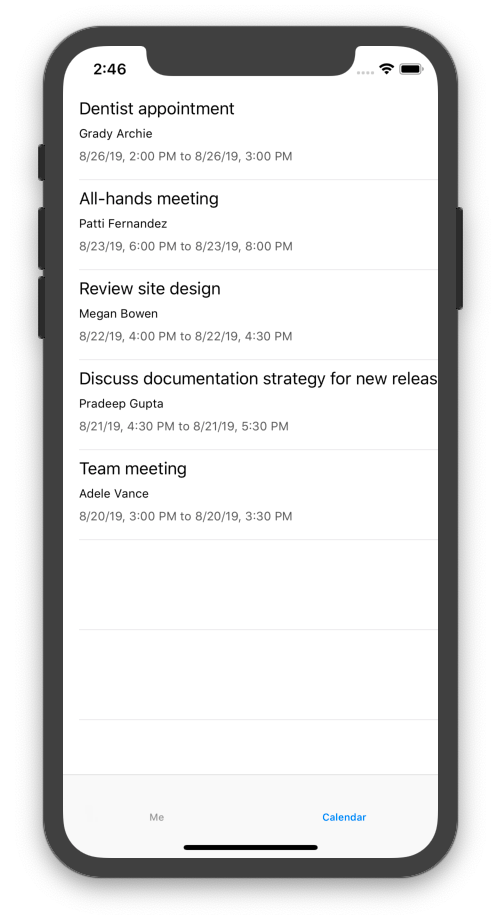
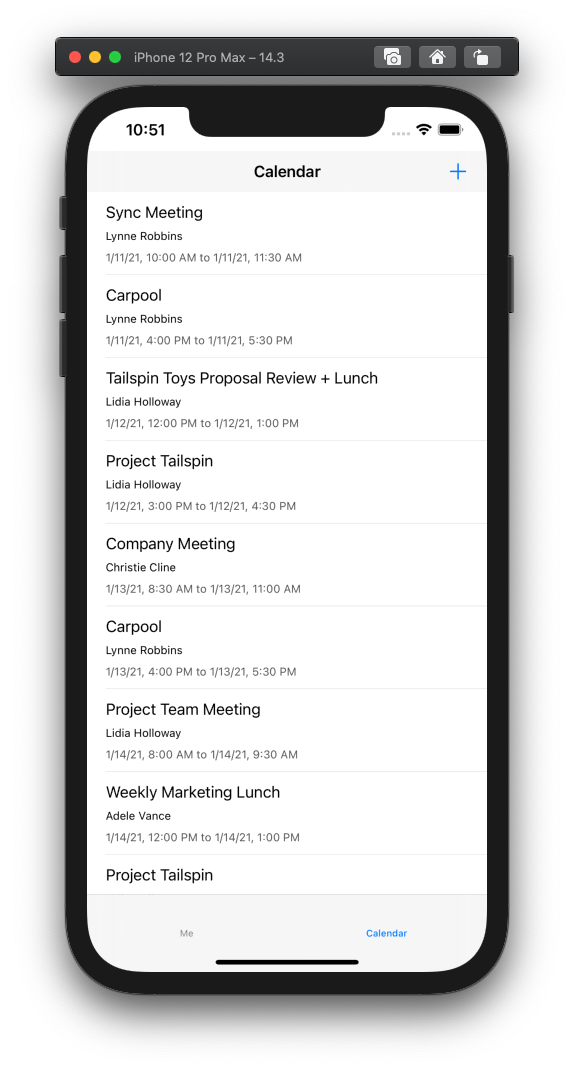
Updated get calendar step

Changed region(s): [[0.0599, 0.0, 0.9281, 0.9739]]

diff --git a/tutorial/05-add-ms-graph.md b/tutorial/05-add-ms-graph.md
@@ -4,18 +4,29 @@ In this exercise you will incorporate the Microsoft Graph into the application. 
 
 ## Get calendar events from Outlook
 
-In this section you will extend the `GraphManager` class to add a function to get the user's events and update `CalendarViewController` to use these new functions.
+In this section you will extend the `GraphManager` class to add a function to get the user's events for the current week and update `CalendarViewController` to use these new functions.
 
 1. Open **GraphManager.swift** and add the following method to the `GraphManager` class.
 
     ```Swift
-    public func getEvents(completion: @escaping(Data?, Error?) -> Void) {
-        // GET /me/events?$select='subject,organizer,start,end'$orderby=createdDateTime DESC
+    public func getCalendarView(viewStart: String, viewEnd: String, completion: @escaping(Data?, Error?) -> Void) {
+        // GET /me/calendarview
+        // Set start and end of the view
+        let start = "startDateTime=\(viewStart)"
+        let end = "endDateTime=\(viewEnd)"
         // Only return these fields in results
         let select = "$select=subject,organizer,start,end"
         // Sort results by when they were created, newest first
-        let orderBy = "$orderby=createdDateTime+DESC"
-        let eventsRequest = NSMutableURLRequest(url: URL(string: "\(MSGraphBaseURL)/me/events?\(select)&\(orderBy)")!)
+        let orderBy = "$orderby=start/dateTime"
+        // Request at most 25 results
+        let top = "$top=25"
+
+        let eventsRequest = NSMutableURLRequest(url: URL(string: "\(MSGraphBaseURL)/me/calendarview?\(start)&\(end)&\(select)&\(orderBy)&\(top)")!)
+
+        // Add the Prefer: outlook.timezone header to get start and end times
+        // in user's time zone
+        eventsRequest.addValue("outlook.timezone=\"\(self.userTimeZone)\"", forHTTPHeaderField: "Prefer")
+
         let eventsDataTask = MSURLSessionDataTask(request: eventsRequest, client: self.client, completion: {
             (data: Data?, response: URLResponse?, graphError: Error?) in
             guard let eventsData = data, graphError == nil else {
@@ -33,11 +44,20 @@ In this section you will extend the `GraphManager` class to add a function to ge
     ```
 
     > [!NOTE]
-    > Consider what the code in `getEvents` is doing.
+    > Consider what the code in `getCalendarView` is doing.
     >
-    > - The URL that will be called is `/v1.0/me/events`.
-    > - The `select` query parameter limits the fields returned for each events to just those the app will actually use.
-    > - The `orderby` query parameter sorts the results by the date and time they were created, with the most recent item being first.
+    > - The URL that will be called is `/v1.0/me/calendarview`.
+    >   - The `startDateTime` and `endDateTime` query parameters define the start and end of the calendar view.
+    >   - The `select` query parameter limits the fields returned for each events to just those the view will actually use.
+    >   - The `orderby` query parameter sorts the results by start time.
+    >   - The `top` query parameter requests 25 results per page.
+    >   - the `Prefer: outlook.timezone` header causes the Microsoft Graph to return the start and end times of each event in the user's time zone.
+
+1. Create a new **Swift File** in the **GraphTutorial** project named **GraphToIana.swift**. Add the following code to the file.
+
+    :::code language="swift" source="../demo/GraphTutorial/GraphTutorial/GraphToIana.swift" id="GraphToIanaSnippet":::
+
+    This does a simple lookup to find an IANA time zone identifier based on the time zone name returned by Microsoft Graph.
 
 1. Open **CalendarViewController.swift** and replace its entire contents with the following code.
 
@@ -57,11 +77,26 @@ In this section you will extend the `GraphManager` class to add a function to ge
             // Do any additional setup after loading the view.
             self.spinner.start(container: self)
 
-            GraphManager.instance.getEvents {
+            // Calculate the start and end of the current week
+            let timeZone = GraphToIana.getIanaIdentifier(graphIdentifer: GraphManager.instance.userTimeZone)
+            let now = Date()
+            var calendar = Calendar(identifier: .gregorian)
+            calendar.timeZone = TimeZone(identifier: timeZone)!
+
+            let startOfWeek = calendar.dateComponents([.calendar, .yearForWeekOfYear, .weekOfYear], from: now).date!
+            let endOfWeek = calendar.date(byAdding: .day, value: 7, to: startOfWeek)!
+
+            // Convert start and end to ISO 8601 strings
+            let isoFormatter = ISO8601DateFormatter()
+            let viewStart = isoFormatter.string(from: startOfWeek)
+            let viewEnd = isoFormatter.string(from: endOfWeek)
+
+            GraphManager.instance.getCalendarView(viewStart: viewStart, viewEnd: viewEnd) {
                 (data: Data?, error: Error?) in
                 DispatchQueue.main.async {
                     self.spinner.stop()
 
+                    // TEMPORARY
                     guard let eventsData = data, error == nil else {
                         self.calendarJSON.text = error.debugDescription
                         return
@@ -80,24 +115,48 @@ You can now run the app, sign in, and tap the **Calendar** navigation item in th
 
 ## Display the results
 
-Now you can replace the JSON dump with something to display the results in a user-friendly manner. In this section, you will modify the `getEvents` function to return strongly-typed objects, and modify `CalendarViewController` to use a table view to render the events.
+Now you can replace the JSON dump with something to display the results in a user-friendly manner. In this section, you will modify the `getCalendarView` function to return strongly-typed objects, and modify `CalendarViewController` to use a table view to render the events.
 
-1. Open **GraphManager.swift**. Replace the existing `getEvents` function with the following.
+1. Open **GraphManager.swift**. Replace the existing `getCalendarView` function with the following.
 
-    :::code language="swift" source="../demo/GraphTutorial/GraphTutorial/GraphManager.swift" id="GetEventsSnippet" highlight="1,17-38":::
+    :::code language="swift" source="../demo/GraphTutorial/GraphTutorial/GraphManager.swift" id="GetEventsSnippet" highlight="1,26-47":::
+
+1. Create a new **Cocoa Touch Class** file in the **GraphTutorial** project named `CalendarTableViewController.swift`. Choose **UITableViewController** in the **Subclass of** field.
+
+1. Open **CalendarTableViewController.swift** and replace its contents with the following.
+
+    :::code language="swift" source="../demo/GraphTutorial/GraphTutorial/CalendarTableViewController.swift" id="CalendarTableViewControllerSnippet":::
 
 1. Create a new **Cocoa Touch Class** file in the **GraphTutorial** project named `CalendarTableViewCell.swift`. Choose **UITableViewCell** in the **Subclass of** field.
 
-1. Open **CalendarTableViewCell.swift** and add the following code to the `CalendarTableViewCell` class.
+1. Open **CalendarTableViewCell.swift** and add the following properties to the `CalendarTableViewCell` class.
 
     :::code language="swift" source="../demo/GraphTutorial/GraphTutorial/CalendarTableViewCell.swift" id="PropertiesSnippet":::
 
-1. Open **Main.storyboard** and locate the **Calendar Scene**. Select the **View** in the **Calendar Scene** and delete it.
+1. Open **Main.storyboard** and locate the **Calendar Scene**. Delete the text view from the root view.
+1. Using the **Library**, add a **Navigation Bar** to the top of the view.
+1. Double-click the **Title** in the navigation bar and update it to `Calendar`.
+1. Using the **Library**, add a **Bar Button Item** to the right-hand side of the navigation bar.
+1. Select the new bar button, then select the **Attributes Inspector**. Change **Image** to **plus**.
+1. Add a **Container View** from the **Library** to the view under the navigation bar. Resize the container view to take all of the remaining space in the view.
+1. Set constraints on the navigation bar and container view as follows.
 
-    ![A screenshot of the View in the Calendar Scene](./images/view-in-calendar-scene.png)
+    - **Navigation Bar**
+        - Add constraint: Height, value: 44
+        - Add constraint: Leading space to Safe Area, value: 0
+        - Add constraint: Trailing space to Safe Area, value: 0
+        - Add constraint: Top space to Safe Area, value: 0
+    - **Container View**
+        - Add constraint: Leading space to Safe Area, value: 0
+        - Add constraint: Trailing space to Safe Area, value: 0
+        - Add constraint: Top space to Navigation Bar Bottom, value: 0
+        - Add constraint: Bottom space to Safe Area, value: 0
 
-1. Add a **Table View** from the **Library** to the **Calendar Scene**.
+1. Locate the second view controller added to the storyboard when you added the container view. It is connected to the **Calendar Scene** by an embed segue. Select this controller and use the **Identity Inspector** to change **Class** to **CalendarTableViewController**.
+1. Delete the **View** from the **Calendar Table View Controller**.
+1. Add a **Table View** from the **Library** to the **Calendar Table View Controller**.
 1. Select the table view, then select the **Attributes Inspector**. Set **Prototype Cells** to **1**.
+1. Drag the bottom edge of the prototype cell to give you a larger area to work with.
 1. Use the **Library** to add three **Labels** to the prototype cell.
 1. Select the prototype cell, then select the **Identity Inspector**. Change **Class** to **CalendarTableViewCell**.
 1. Select the **Attributes Inspector** and set **Identifier** to `EventCell`.
@@ -110,18 +169,22 @@ Now you can replace the JSON dump with something to display the results in a use
         - Add constraint: Top space to Content View Top Margin, value: 0
     - **Organizer Label**
         - Font: System 12.0
+        - Add constraint: Height, value: 15
         - Add constraint: Leading space to Content View Leading Margin, value: 0
         - Add constraint: Trailing space to Content View Trailing Margin, value: 0
         - Add constraint: Top space to Subject Label Bottom, value: Standard
     - **Duration Label**
         - Font: System 12.0
         - Color: Dark Gray Color
+        - Add constraint: Height, value: 15
         - Add constraint: Leading space to Content View Leading Margin, value: 0
         - Add constraint: Trailing space to Content View Trailing Margin, value: 0
         - Add constraint: Top space to Organizer Label Bottom, value: Standard
-        - Add constraint: Bottom space to Content View Bottom Margin, value: 8
+        - Add constraint: Bottom space to Content View Bottom Margin, value: 0
 
-    ![A screenshot of the prototype cell layout](./images/prototype-cell-layout.png)
+1. Select the **Calendar Table View Cell**, then select the **Size Inspector**. Enable **Automatic** for **Row Height**.
+
+    ![A screenshot of the calendar and calendar table view controllers](images/calendar-table-storyboard.png)
 
 1. Open **CalendarViewController.swift** and replace its contents with the following code.
 
@@ -129,4 +192,4 @@ Now you can replace the JSON dump with something to display the results in a use
 
 1. Run the app, sign in, and tap the **Calendar** tab. You should see the list of events.
 
-    ![A screenshot of the table of events](./images/calendar-list.png)
+    ![A screenshot of the table of events](images/calendar-list.png)

diff --git a/tutorial/02-create-app.md b/tutorial/02-create-app.md
@@ -224,53 +224,20 @@ The welcome scene should look similar to this once you're done.
             calendarJSON.text = "Calendar"
             calendarJSON.sizeToFit()
         }
-
-        @IBAction func showNewEventForm() {
-            self.performSegue(withIdentifier: "showEventForm", sender: self)
-        }
     }
     ```
 
 1. Open **Main.storyboard**. Select the **Item 2 Scene**, then select the **Identity Inspector**. Change the **Class** value to **CalendarViewController**.
-1. Using the **Library**, add a **Navigation Bar** to the **Item 2 Scene**.
-1. Double-click the **Title** in the navigation bar and update it to `Calendar`.
-1. Using the **Library**, add a **Bar Button Item** to the right-hand side of the navigation bar.
-1. Select the new bar button, then select the **Attributes Inspector**. Change **Image** to **plus**.
 1. Using the **Library**, add a **Text View** to the **Item 2 Scene**.
 1. Select the text view you just added. On the **Editor** menu, choose **Embed In**, then **Scroll View**.
-1. Resize the scroll view and text view to take up the screen under the navigation bar.
+1. Resize the scroll view and text view to take up the entire screen.
 1. Using the **Connections Inspector**, connect the **calendarJSON** outlet to the text view.
-1. Connect the **showNewEventForm** received action to the navigation bar button.
 1. Select the tab bar item at the bottom of the scene, then select the **Attributes Inspector**. Change the **Title** to `Calendar`.
 1. On the **Editor** menu, select **Resolve Auto Layout Issues**, then select **Add Missing Constraints** underneath **All Views in Calendar View Controller**.
 
 The calendar scene should look similar to this once you're done.
 
 ![A screenshot of the Calendar scene layout](images/calendar-scene-layout.png)
-
-### Create new event page
-
-1. Create a new **Cocoa Touch Class** file in the **GraphTutorial** folder named `NewEventViewController`. Choose **UIViewController** in the **Subclass of** field.
-1. Open **NewEventViewController.swift** and add the following function to the **NewEventViewController** class.
-
-    ```swift
-    @IBAction func cancel() {
-        self.dismiss(animated: true, completion: nil)
-    }
-    ```
-
-1. Open **Main.storyboard**. Use the **Library** to drag a **View Controller** onto the storyboard.
-1. Using the **Library**, add a **Navigation Bar** to the view controller.
-1. Double-click the **Title** in the navigation bar and update it to `New Event`.
-1. Using the **Library**, add a **Bar Button Item** to the left-hand side of the navigation bar.
-1. Select the new bar button, then select the **Attributes Inspector**. Change **Title** to `Cancel`.
-1. Using the **Library**, add a **Bar Button Item** to the right-hand side of the navigation bar.
-1. Select the new bar button, then select the **Attributes Inspector**. Change **Title** to `Create`.
-1. Select the view controller, then select the **Identity Inspector**. Change **Class** to **NewEventViewController**.
-1. Use the **Connection Inspector** to connect the **cancel** received action to the **Cancel** bar button.
-1. Select the **Calendar Scene**, then select the **Connections Inspector**.
-1. Under **Triggered Segues**, drag the unfilled circle next to **manual** onto the **New Event View Controller** on the storyboard. Select **Present Modally** in the pop-up menu.
-1. Select the segue you just added, then select the **Attributes Inspector**. Set the **Identifier** field to `showEventForm`.
 
 ### Create activity indicator
 

diff --git a/tutorial/04-add-aad-auth.md b/tutorial/04-add-aad-auth.md
@@ -96,8 +96,11 @@ In this section you will create a helper class to hold all of the calls to Micro
 
         private let client: MSHTTPClient?
 
+        public var userTimeZone: String
+
         private init() {
             client = MSClientFactory.createHTTPClient(with: AuthenticationManager.instance)
+            userTimeZone = "UTC"
         }
 
         public func getMe(completion: @escaping(MSGraphUser?, Error?) -> Void) {
@@ -132,11 +135,10 @@ In this section you will create a helper class to hold all of the calls to Micro
     import MSGraphClientModels
     ```
 
-1. Add the following properties to the `WelcomeViewController` class.
+1. Add the following property to the `WelcomeViewController` class.
 
     ```Swift
     private let spinner = SpinnerViewController()
-    private var userTimeZone: String = "UTC";
     ```
 
 1. Replace the existing `viewDidLoad` with the following code.
